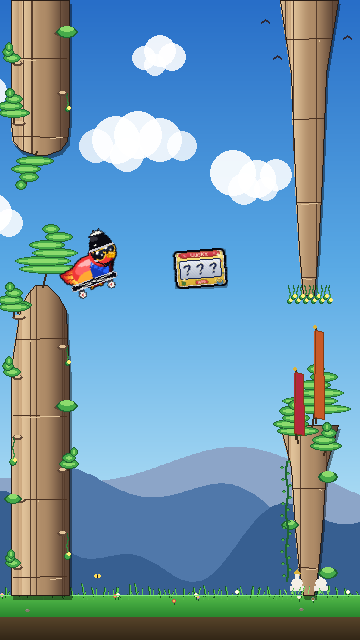
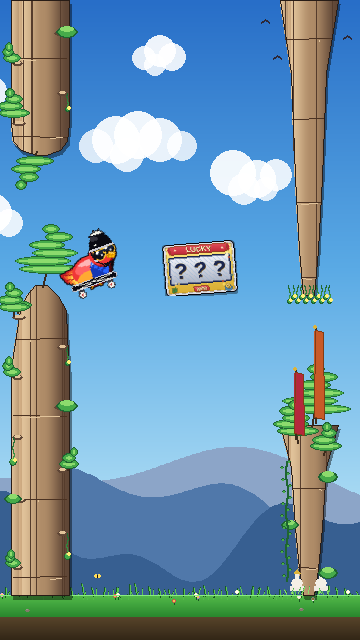
LOTTERY: D2 v2 - slimmer black rim, bigger canvas, sharper text
User feedback on v1: "Make the perimeter line less thick, and
the text more clear, it all should be in better resolution."

Changes:
  * native footprint 56x42 -> 76x56 (1.35x linear, 1.8x pixel
    area) so all detail reads sharply at game scale
  * black outer perimeter slimmed 2 SS -> 1 SS
  * banner height 6 SS -> 9 SS so "LUCKY" renders ~7 native px
    instead of ~5
  * "WIN!" stamp height 4 SS -> 6 SS
  * every text element now two-pass rendered (STROKE shadow
    under CREAM highlight under bold NAVY/CREAM fill) for the
    crispest edges through smoothscale-down
  * confetti / corner sparkles repositioned for the larger
    canvas

All richness from v1 preserved (banner sparkles, gold sun-rays,
clover, coin, WIN stamp, confetti, corner sparkles).

Changed region(s): [[0.4278, 0.375, 0.6722, 0.4688]]

diff --git a/tools/render_lottery_d2_rich.py b/tools/render_lottery_d2_rich.py
@@ -1,18 +1,24 @@
 """Render the LOTTERY scratch-card icon — D2 polished and richer.
 
 User picked D2 (LUCKY arched red banner) as the direction. This
-version adds:
+version (v2):
 
-  * a thick BLACK outer perimeter line outside the chrome ring
+  * native footprint bumped 56×42 → 76×56 (1.35x linear, 1.8x
+    pixel area) so all text + detail reads sharply
+  * black outer perimeter slimmed from 2 SS to 1 SS so it reads
+    as a clean outline rather than a heavy frame
+  * banner height bumped 6 SS → 9 SS — "LUCKY" caption is now
+    ~7 native px tall instead of ~5
+  * "WIN!" stamp height bumped 4 SS → 6 SS
+  * "? ? ?" panel font scales with the larger panel automatically
+
+Still keeps every richness element from v1:
   * 2 cream sparkle stars flanking "LUCKY" on the banner
-  * 4 thin gold sun-rays radiating downward from beneath the
-    banner, painted across the upper gold body
-  * a small red "WIN!" mini-stamp at the bottom-centre between
-    the clover and the coin
-  * 5 confetti dots scattered across the card in mixed colours
-
-The clover, coin, foil "? ? ?" panel, and 3 corner sparkles
-from the original D2 are preserved.
+  * 4 thin gold sun-rays radiating downward beneath the banner
+  * small red "WIN!" mini-stamp at the bottom-centre
+  * 5 confetti dots scattered around the card
+  * clover stamp lower-left, gold "$" coin lower-right
+  * 3 corner sparkle stars
 
 Run headless:
     SDL_VIDEODRIVER=dummy SDL_AUDIODRIVER=dummy \
@@ -57,15 +63,21 @@ os.makedirs(_OUT, exist_ok=True)
 BLACK = (8, 8, 14)
 TEAL  = (90, 175, 175)
 
+# Bigger native footprint = more display pixels per icon. The
+# powerup collision radius is unchanged (POWERUP_R = 14); the
+# visual just runs a touch larger than the hitbox, same as the
+# skateboard icon (72×72) does.
+NATIVE_W = 76
+NATIVE_H = 56
+
 
 def _gold_card_base_black_rim(big, SS):
-    """Variant of L1's _gold_card_base with an outer BLACK perimeter
-    ring outside the chrome. Layers, outermost first:
-        BLACK 2-SS ring  →  chrome 2-SS ring  →  dashed dark-gold
+    """L1 chassis with a thin BLACK outer ring outside the chrome.
+    Layers, outermost first:
+        BLACK 1-SS ring  →  chrome 2-SS ring  →  dashed dark-gold
         inner stroke  →  gold body + top sheen.
     Returns (card_rect, inner_rect)."""
     w, h = big.get_width(), big.get_height()
-    # Card body — slightly tighter so the black ring fits outside.
     card = pygame.Rect(3 * SS, 3 * SS, w - 6 * SS, h - 6 * SS)
     # Drop shadow.
     sh = pygame.Surface((card.width + 4 * SS, card.height + 4 * SS),
@@ -87,9 +99,10 @@ def _gold_card_base_black_rim(big, SS):
     # Chrome perimeter (2 SS).
     pygame.draw.rect(big, CHROME, card, width=2 * SS,
                      border_radius=4 * SS)
-    # BLACK outer perimeter — sits 1 SS outside the chrome ring.
+    # BLACK outer perimeter — slimmer (1 SS) than the v1's 2 SS so
+    # it reads as a crisp outline.
     black_rect = card.inflate(2 * SS, 2 * SS)
-    pygame.draw.rect(big, BLACK, black_rect, width=2 * SS,
+    pygame.draw.rect(big, BLACK, black_rect, width=1 * SS,
                      border_radius=5 * SS)
     # Dashed dark-gold inner stroke.
     inner = card.inflate(-4 * SS, -4 * SS)
@@ -99,20 +112,24 @@ def _gold_card_base_black_rim(big, SS):
 
 
 def draw_d2_rich(surf, cx, cy, pulse):
-    """D2 rich — LUCKY banner + clover + coin + WIN stamp +
-    light rays + confetti + black outer perimeter."""
+    """D2 rich v2 — LUCKY banner + clover + coin + WIN stamp +
+    light rays + confetti + black outer perimeter on a 76×56 canvas
+    for sharper text + detail."""
 
     def paint(big, SS):
         card, inner = _gold_card_base_black_rim(big, SS)
 
-        # Red arched banner across the top, pinned over the chrome.
+        # Red arched banner across the top. Taller than v1 (9 SS vs
+        # 6 SS) so "LUCKY" is ~7 native px instead of ~5 — crisp at
+        # game scale.
+        banner_h = int(9 * SS)
         banner = pygame.Rect(card.left + 6 * SS, card.top + SS,
-                             card.width - 12 * SS, int(6 * SS))
+                             card.width - 12 * SS, banner_h)
         _v_gradient_rect(big, banner, RED_HI, RED, radius=2 * SS)
         pygame.draw.rect(big, STROKE, banner, max(1, SS // 2),
                          border_radius=2 * SS)
         # Ribbon-fold notches at the ends.
-        notch_w = 2 * SS
+        notch_w = int(2.5 * SS)
         pygame.draw.polygon(big, RED, [
             (banner.left, banner.top),
             (banner.left - notch_w, banner.centery),
@@ -125,81 +142,102 @@ def draw_d2_rich(surf, cx, cy, pulse):
         ])
 
         # 4 gold sun-rays radiating downward from beneath the banner
-        # across the upper gold body — gives the "burst of luck"
-        # feel. Drawn before the foil panel so the panel hides their
-        # bottoms cleanly.
+        # across the upper gold body — "burst of luck" feel.
         ray_origin = (banner.centerx, banner.bottom)
-        for i, ang_deg in enumerate((-28, -10, 10, 28)):
+        for ang_deg in (-32, -12, 12, 32):
             ang = math.radians(90 + ang_deg)
-            x2 = ray_origin[0] + math.cos(ang) * int(banner.width * 0.6)
-            y2 = ray_origin[1] + math.sin(ang) * int(banner.width * 0.6)
+            x2 = ray_origin[0] + math.cos(ang) * int(banner.width * 0.55)
+            y2 = ray_origin[1] + math.sin(ang) * int(banner.width * 0.55)
             ray = pygame.Surface(big.get_size(), pygame.SRCALPHA)
-            pygame.draw.line(ray, (255, 245, 170, 120),
+            pygame.draw.line(ray, (255, 245, 170, 130),
                               ray_origin, (x2, y2), max(1, SS))
             big.blit(ray, (0, 0))
 
         # LUCKY caption + 2 cream sparkles flanking the text inside
-        # the banner.
-        f = _font(int(banner.height * 0.88))
-        bt = f.render("LUCKY", True, CREAM)
+        # the banner. Two-pass render (dark shadow + cream fill)
+        # gives crisper edges at game scale.
+        f = _font(int(banner_h * 0.82))
+        bt_sh = f.render("LUCKY", True, STROKE)
+        bt    = f.render("LUCKY", True, CREAM)
+        big.blit(bt_sh, bt_sh.get_rect(
+            center=(banner.centerx + SS // 2,
+                    banner.centery + SS // 2)))
         big.blit(bt, bt.get_rect(center=banner.center))
         sp_y = banner.centery
-        _sparkle(big, banner.left + 4 * SS, sp_y, int(SS * 1.4),
+        _sparkle(big, banner.left + 5 * SS, sp_y, int(SS * 1.6),
                  colour=CREAM)
-        _sparkle(big, banner.right - 4 * SS, sp_y, int(SS * 1.4),
+        _sparkle(big, banner.right - 5 * SS, sp_y, int(SS * 1.6),
                  colour=CREAM)
 
         # Foil panel between banner and bottom-row stamps.
-        bot_row_h = 7 * SS  # reserved for clover / coin / WIN stamp
+        bot_row_h = 10 * SS  # reserved for clover / coin / WIN stamp
         panel = pygame.Rect(inner.left + 2 * SS,
                             banner.bottom + 2 * SS,
                             inner.width - 4 * SS,
-                            inner.bottom - banner.bottom - bot_row_h
-                            - SS)
-        _l1_panel_and_text(big, panel, SS)
+                            inner.bottom - banner.bottom - bot_row_h)
+        _silver_panel(big, panel, radius=2 * SS)
+        # Two-pass "? ? ?" — STROKE shadow under CREAM highlight
+        # under bold NAVY fill for the crispest possible read at
+        # smoothscale-down time.
+        f_q = _font(int(panel.height * 0.78))
+        q_sh   = f_q.render("? ? ?", True, STROKE)
+        q_hl   = f_q.render("? ? ?", True, CREAM)
+        q_fill = f_q.render("? ? ?", True, NAVY)
+        qr = q_fill.get_rect(center=panel.center)
+        big.blit(q_sh, q_sh.get_rect(
+            center=(qr.centerx + SS // 2, qr.centery + SS // 2)))
+        big.blit(q_hl, q_hl.get_rect(
+            center=(qr.centerx, qr.centery - SS // 2)))
+        big.blit(q_fill, qr)
 
         # Bottom-row decorations: clover left, WIN stamp centre,
         # coin right.
-        bot_y = panel.bottom + int(3.5 * SS)
-        _clover(big, card.left + 7 * SS, bot_y,
-                int(SS * 1.6), SS)
-        # Centre "WIN!" mini stamp on the gold body.
-        win_rect = pygame.Rect(0, 0, int(13 * SS), int(4 * SS))
+        bot_y = panel.bottom + int(5 * SS)
+        _clover(big, card.left + 8 * SS, bot_y,
+                int(SS * 1.9), SS)
+        # Centre "WIN!" mini stamp. Taller (6 SS vs v1's 4 SS) for
+        # readable letters.
+        win_h = 6 * SS
+        win_rect = pygame.Rect(0, 0, int(16 * SS), win_h)
         win_rect.center = (card.centerx, bot_y)
         _v_gradient_rect(big, win_rect, RED_HI, RED,
-                         radius=int(SS * 1.5))
+                         radius=int(SS * 2))
         pygame.draw.rect(big, STROKE, win_rect, max(1, SS // 2),
-                         border_radius=int(SS * 1.5))
-        fw = _font(int(win_rect.height * 0.95))
-        wt = fw.render("WIN!", True, CREAM)
+                         border_radius=int(SS * 2))
+        fw = _font(int(win_h * 0.82))
+        wt_sh = fw.render("WIN!", True, STROKE)
+        wt    = fw.render("WIN!", True, CREAM)
+        big.blit(wt_sh, wt_sh.get_rect(center=(win_rect.centerx + SS // 2,
+                                                 win_rect.centery + SS // 2)))
         big.blit(wt, wt.get_rect(center=win_rect.center))
         # Coin lower-right.
-        _coin_disc(big, card.right - 7 * SS, bot_y,
-                   int(SS * 2.4), SS, label="$")
+        _coin_disc(big, card.right - 8 * SS, bot_y,
+                   int(SS * 2.8), SS, label="$")
 
         # Confetti dots scattered around the card — mixed accent
-        # colours to break up the gold. Skip positions that would
-        # collide with the banner / panel / bottom row.
+        # colours. Tuned positions for the larger 76×56 canvas.
         confetti_specs = [
-            (card.left  + 4 * SS,  card.top    + 11 * SS, TEAL),
-            (card.right - 4 * SS,  card.top    + 12 * SS, RED_HI),
-            (card.left  + 3 * SS,  card.bottom - 13 * SS, CREAM),
-            (card.right - 3 * SS,  card.bottom - 12 * SS, TEAL),
-            (card.centerx - 16 * SS, card.bottom - 9 * SS, CREAM),
+            (card.left  + 5 * SS,  card.top    + 15 * SS, TEAL),
+            (card.right - 5 * SS,  card.top    + 16 * SS, RED_HI),
+            (card.left  + 4 * SS,  card.bottom - 17 * SS, CREAM),
+            (card.right - 4 * SS,  card.bottom - 16 * SS, TEAL),
+            (card.centerx - 22 * SS, card.bottom - 11 * SS, CREAM),
+            (card.centerx + 22 * SS, card.bottom - 11 * SS, RED_HI),
         ]
         for x, y, col in confetti_specs:
-            pygame.draw.circle(big, col, (x, y), max(1, int(SS * 1.1)))
+            pygame.draw.circle(big, col, (x, y), max(1, int(SS * 1.2)))
             pygame.draw.circle(big, STROKE, (x, y),
-                               max(1, int(SS * 1.1)),
+                               max(1, int(SS * 1.2)),
                                max(1, SS // 3))
 
-        # L1's 3 corner sparkles (kept).
-        _sparkle(big, card.right - 6 * SS, card.top + 6 * SS, 3 * SS)
-        _sparkle(big, card.left + 8 * SS, card.bottom - 8 * SS, 2 * SS)
-        _sparkle(big, card.right - 10 * SS, card.bottom - 5 * SS,
-                 2 * SS, colour=(255, 230, 120))
+        # L1's 3 corner sparkles (kept), repositioned for the larger
+        # canvas.
+        _sparkle(big, card.right - 7 * SS, card.top + 13 * SS, 3 * SS)
+        _sparkle(big, card.left + 10 * SS, card.bottom - 11 * SS, 2 * SS)
+        _sparkle(big, card.right - 12 * SS, card.bottom - 8 * SS,
+                 int(SS * 2.2), colour=(255, 230, 120))
 
-    icon = _ss_paint(paint)
+    icon = _ss_paint(paint, native_w=NATIVE_W, native_h=NATIVE_H)
     tilt = math.sin(pulse * 0.7) * 5
     rotated = pygame.transform.rotate(icon, tilt)
     surf.blit(rotated, rotated.get_rect(center=(cx, cy)))
@@ -208,10 +246,10 @@ def draw_d2_rich(surf, cx, cy, pulse):
 # ── output ──────────────────────────────────────────────────────────────────
 
 def main():
-    # 56×42 zoom scaled 6× for review.
-    base = pygame.Surface((56, 42), pygame.SRCALPHA)
-    draw_d2_rich(base, 28, 21, pulse=1.6)
-    zoom = pygame.transform.scale(base, (56 * 6, 42 * 6))
+    # Native zoom scaled 6× for review.
+    base = pygame.Surface((NATIVE_W, NATIVE_H), pygame.SRCALPHA)
+    draw_d2_rich(base, NATIVE_W // 2, NATIVE_H // 2, pulse=1.6)
+    zoom = pygame.transform.scale(base, (NATIVE_W * 6, NATIVE_H * 6))
     pygame.draw.rect(zoom, (255, 215, 0), zoom.get_rect(), 2)
     zoom_path = os.path.join(_OUT, "D2_rich.png")
     pygame.image.save(zoom, zoom_path)
@@ -222,8 +260,8 @@ def main():
     frame = render_play_scene(world)
     icon_cx = int(world.bird.x) + 110
     icon_cy = int(world.bird.y)
-    base_ig = pygame.Surface((56, 42), pygame.SRCALPHA)
-    draw_d2_rich(base_ig, 28, 21, pulse=1.6)
+    base_ig = pygame.Surface((NATIVE_W, NATIVE_H), pygame.SRCALPHA)
+    draw_d2_rich(base_ig, NATIVE_W // 2, NATIVE_H // 2, pulse=1.6)
     frame.blit(base_ig, base_ig.get_rect(center=(icon_cx, icon_cy)))
     ingame_path = os.path.join(_OUT, "D2_rich_ingame.png")
     pygame.image.save(frame, ingame_path)
